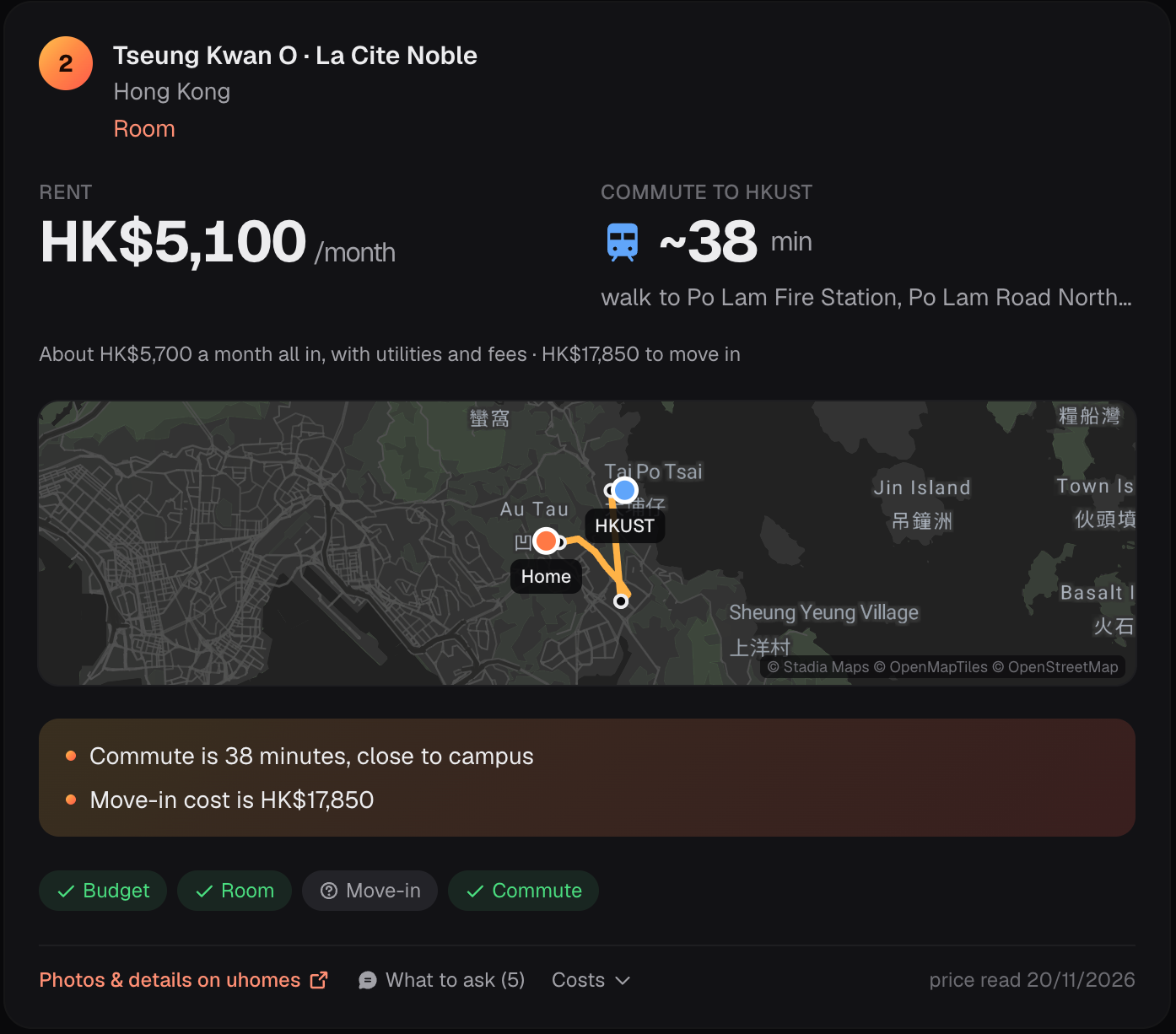
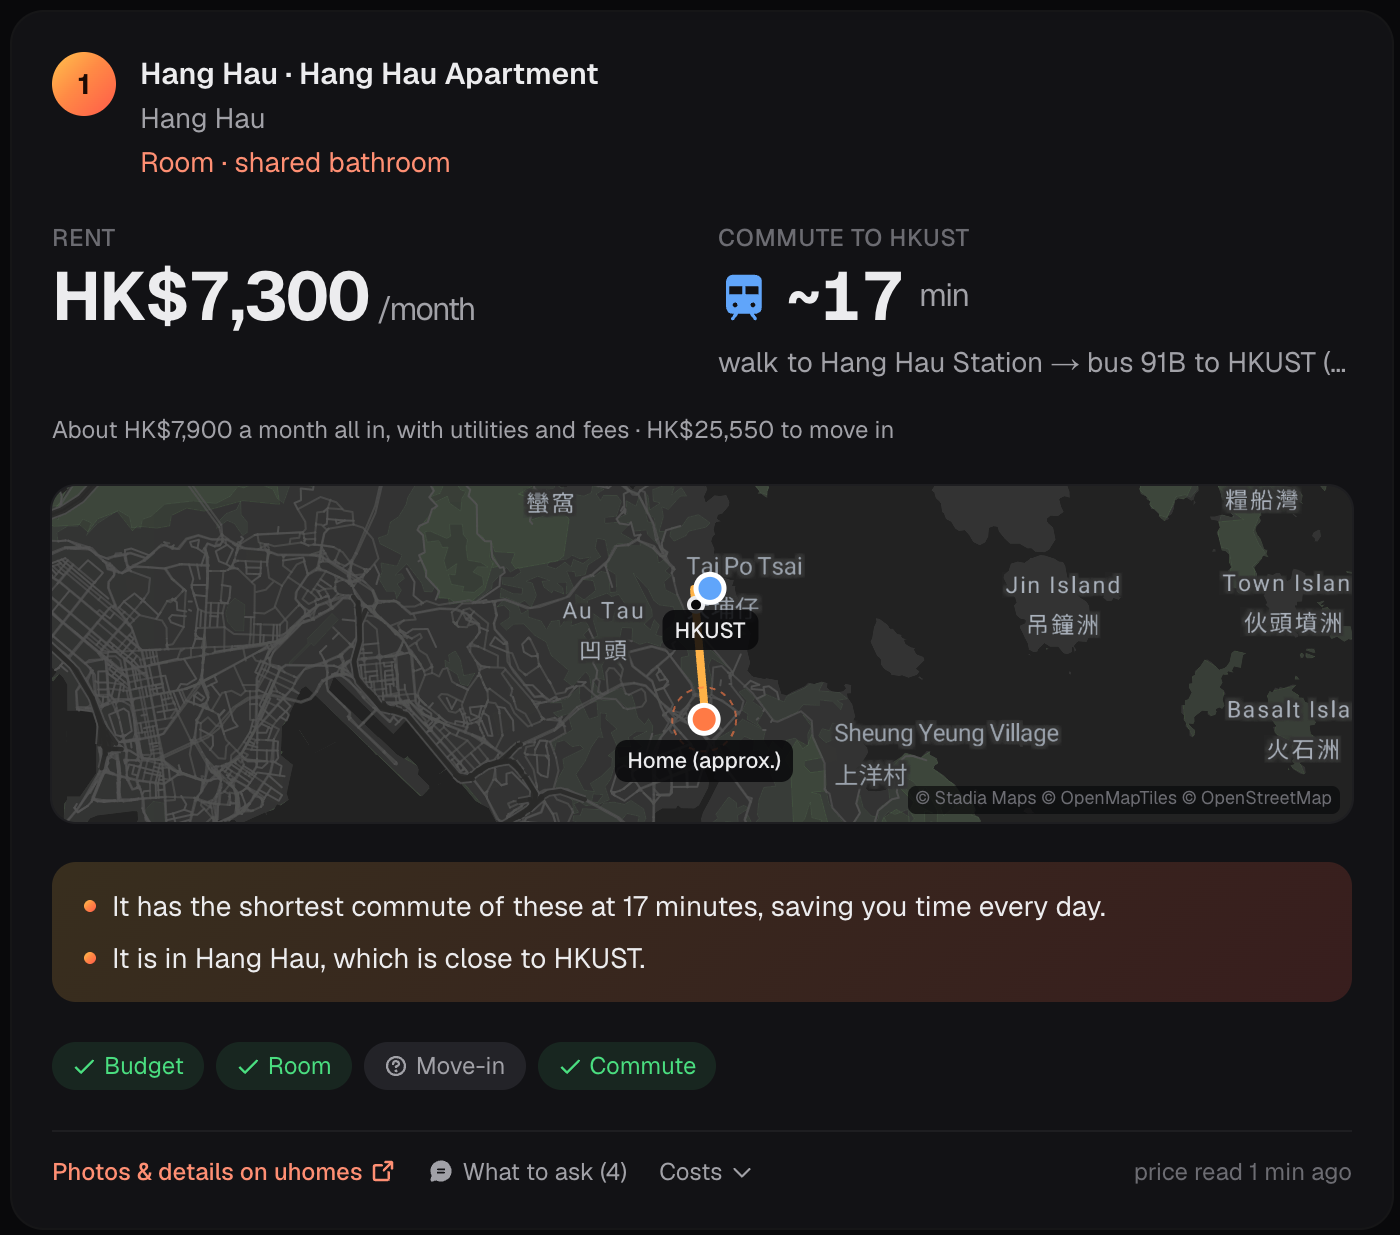
Retake the README screenshots on Qwen 27B on TACC
The live trace, the top result card and the run inspector now show a run of the README's
first brief on Qwen 27B through the TACC tunnel: 19 s and 5 model calls with the pages
already read once (the first run, reading every page, took 76 s), against 56 s on Qwen 8B
in the earlier screenshots.

diff --git a/README.md b/README.md
@@ -15,11 +15,11 @@ on an actual bus and MTR route, where the listing came from, and why it fits.
     <td colspan="2">Write what you need in plain words, or start from an example.</td>
   </tr>
   <tr>
-    <td width="50%"><img src="docs/images/live-progress.png" alt="FlatJai working through a brief: understood, planned, searched, read 22 listings, 4 homes fit"></td>
-    <td width="50%"><img src="docs/images/commute-map.png" alt="A shortlisted room: HK$5,100 a month, 38 minutes to HKUST, its route on a map, every limit checked"></td>
+    <td width="50%"><img src="docs/images/live-progress.png" alt="FlatJai on Qwen 27B working through a brief: understood it, planned a second round of searches, searched 18 times, read 16 listings, 4 homes fit"></td>
+    <td width="50%"><img src="docs/images/commute-map.png" alt="The top result: a room in Hang Hau at HK$7,300 a month, 17 minutes to HKUST by bus 91B, its route on a map, HK$25,550 to move in, budget, room and commute checked"></td>
   </tr>
   <tr>
-    <td>Every step is streamed live while it reads the market.</td>
+    <td>Every step is streamed live while it reads the market. Here on Qwen 27B on TACC: 19 s for this brief.</td>
     <td>A result: rent, real cost to move in, the route to campus, and which of your limits it meets.</td>
   </tr>
 </table>
@@ -471,9 +471,11 @@ valid structured output.
 
 ## See what the agent did
 
-Every stage, model call and tool call is recorded. Open **Inspect** on any answer to see one run:
+Every stage, model call and tool call is recorded. Open **Inspect** on any answer to see one run.
+This one is the brief above on Qwen 27B on TACC: 19 s, 5 model calls, with the pages already read
+once (its first run, which fetched and read every page, took 76 s with 19 model calls):
 
-![Run inspector: each stage, model call and tool call on a timeline, with timings and tokens](docs/images/run-inspector.png)
+![Run inspector for a run on qwen3.8-27b: 19 s, 5 model calls, 89 tool calls, each stage, model call and tool call on a timeline](docs/images/run-inspector.png)
 
 The **Metrics** dashboard (Grafana, http://localhost:3001) covers every run, with Qwen 8B and 27B
 side by side: outcomes, time per brief and per stage, model and tool latency, cache hits, and the

diff --git a/docs/build-log.md b/docs/build-log.md
@@ -102,3 +102,4 @@
 - `./run.sh local --tacc`: the app on Qwen 27B through an SSH tunnel (`scripts/tacc-tunnel.sh`, profile `tacc-tunnel`). It starts the service job, forwards it to `localhost:8001` through the TACC gateway as whoever runs it, and cancels the job on Ctrl-C. Run end to end the same day from the HKUST network: the gateway allows the forward, the model answered about 6.5 min after submit, and a typed call took 3.1 s. Fixed on the way: a carriage return in the URL read from the job log, and the stream of expected "connection refused" lines while vLLM loads (now hidden, with a progress line each minute).
 - Docs reworked: `evaluation.md` now describes the suite, then the systems, snapshot and scorer before the E1, E2 and E3 results (E1 had no heading of its own); `tacc.md` covers both ways of using TACC and a setup anyone with an account can follow; `architecture.md` describes how it runs today; the decision records no longer cite the private design document.
 - Qwen 27B on TACC made FlatJai's default model (decision 0010). `./setup.sh` asks where the model runs (TACC first and preselected, or Qwen 8B here through Ollama) and checks only what that choice needs: tcloud, the TACC login, the course kit and the gateway, or Ollama and the 5 GB download. `.env.example` and the settings default are `tacc-tunnel`. `./run.sh app` follows the choice (TACC: start the service, open the tunnel, or reuse an open one) and `--model local` runs once on 8B; `./run.sh suite` is the evaluation inside TACC (the old names `local`, `tacc` and `--tacc` still work). Make targets that call the model stop with a hint when the tunnel is closed. One time budget, 240 s, for both models. README, `tacc.md` and `architecture.md` describe 27B on TACC as the model and 8B as the fallback.
+- Screenshots retaken on Qwen 27B on TACC through the tunnel (live mode, the README's first brief): the live trace, the top result card and the run inspector. The first run fetched and read every page in 76 s (19 model calls); the same brief again took 19 s (5 model calls, 85 of 89 tool calls from the cache), against 56 s on Qwen 8B for the earlier screenshots.
